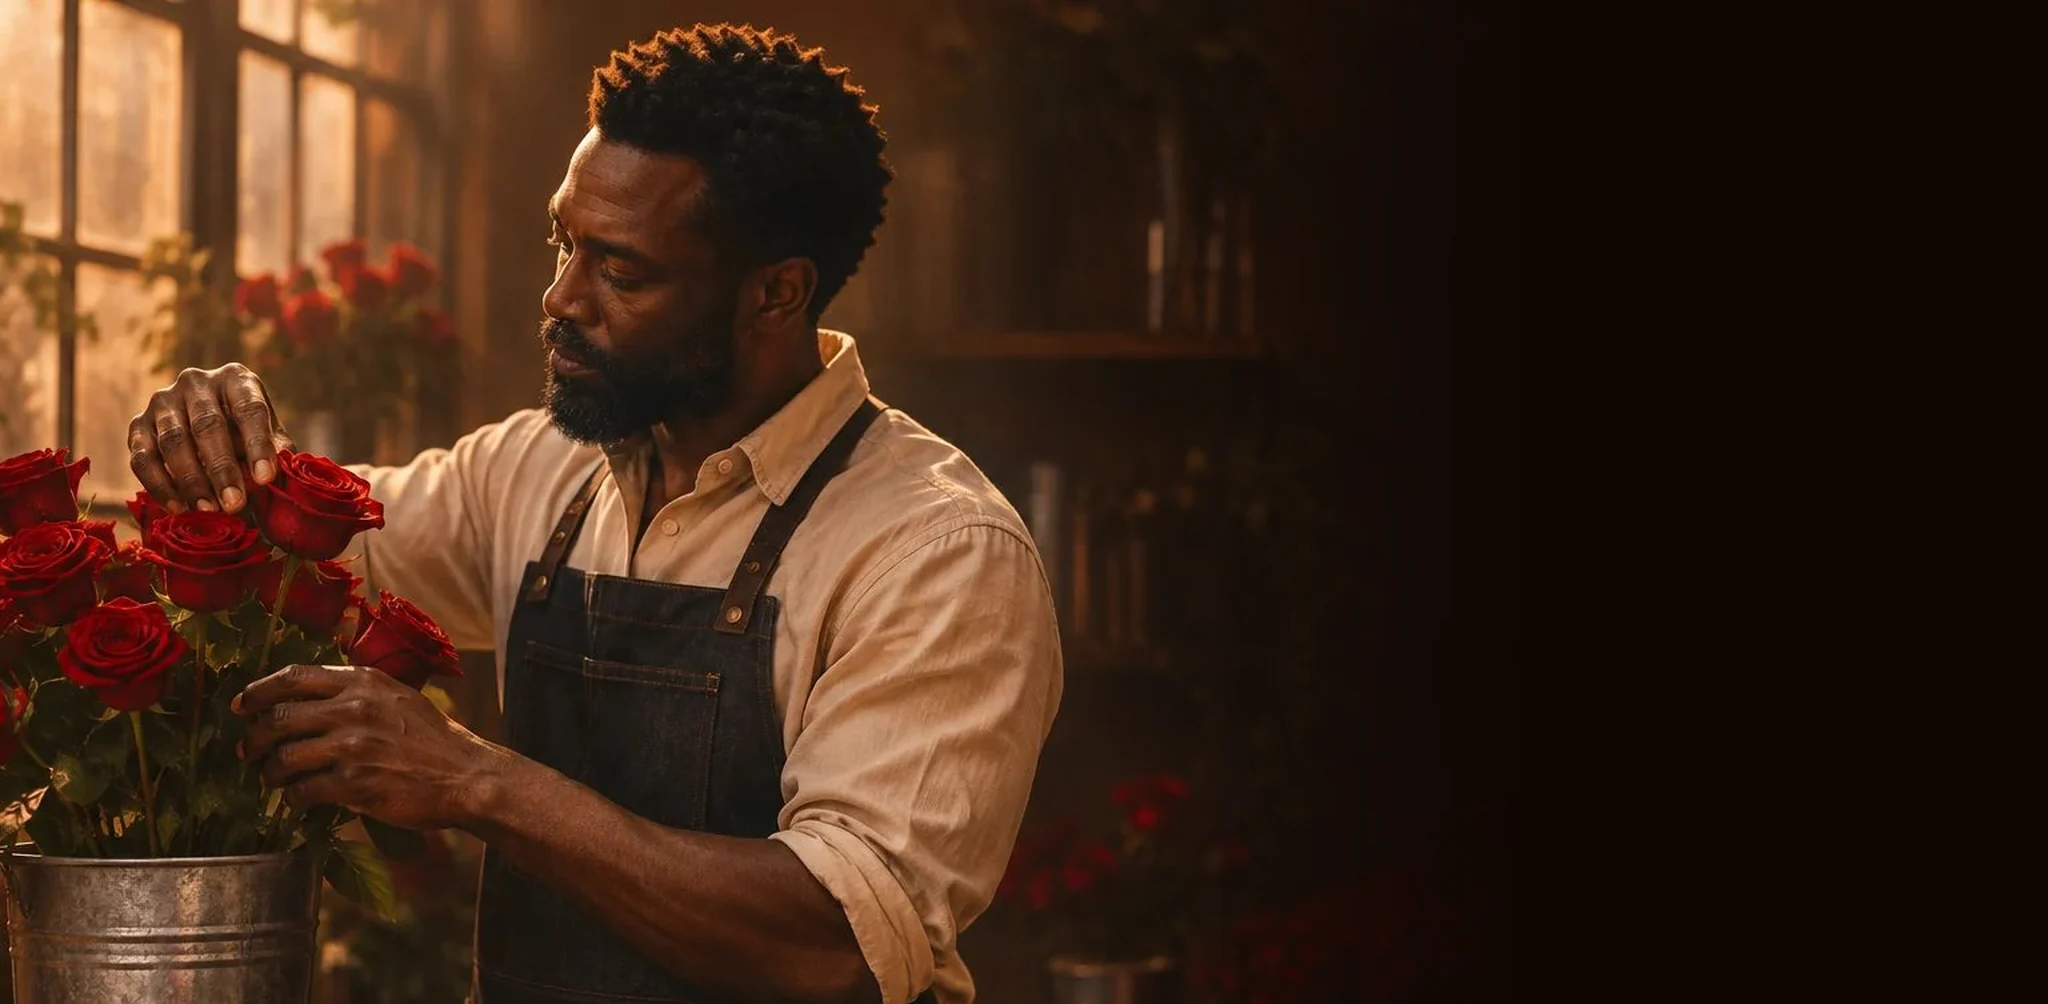
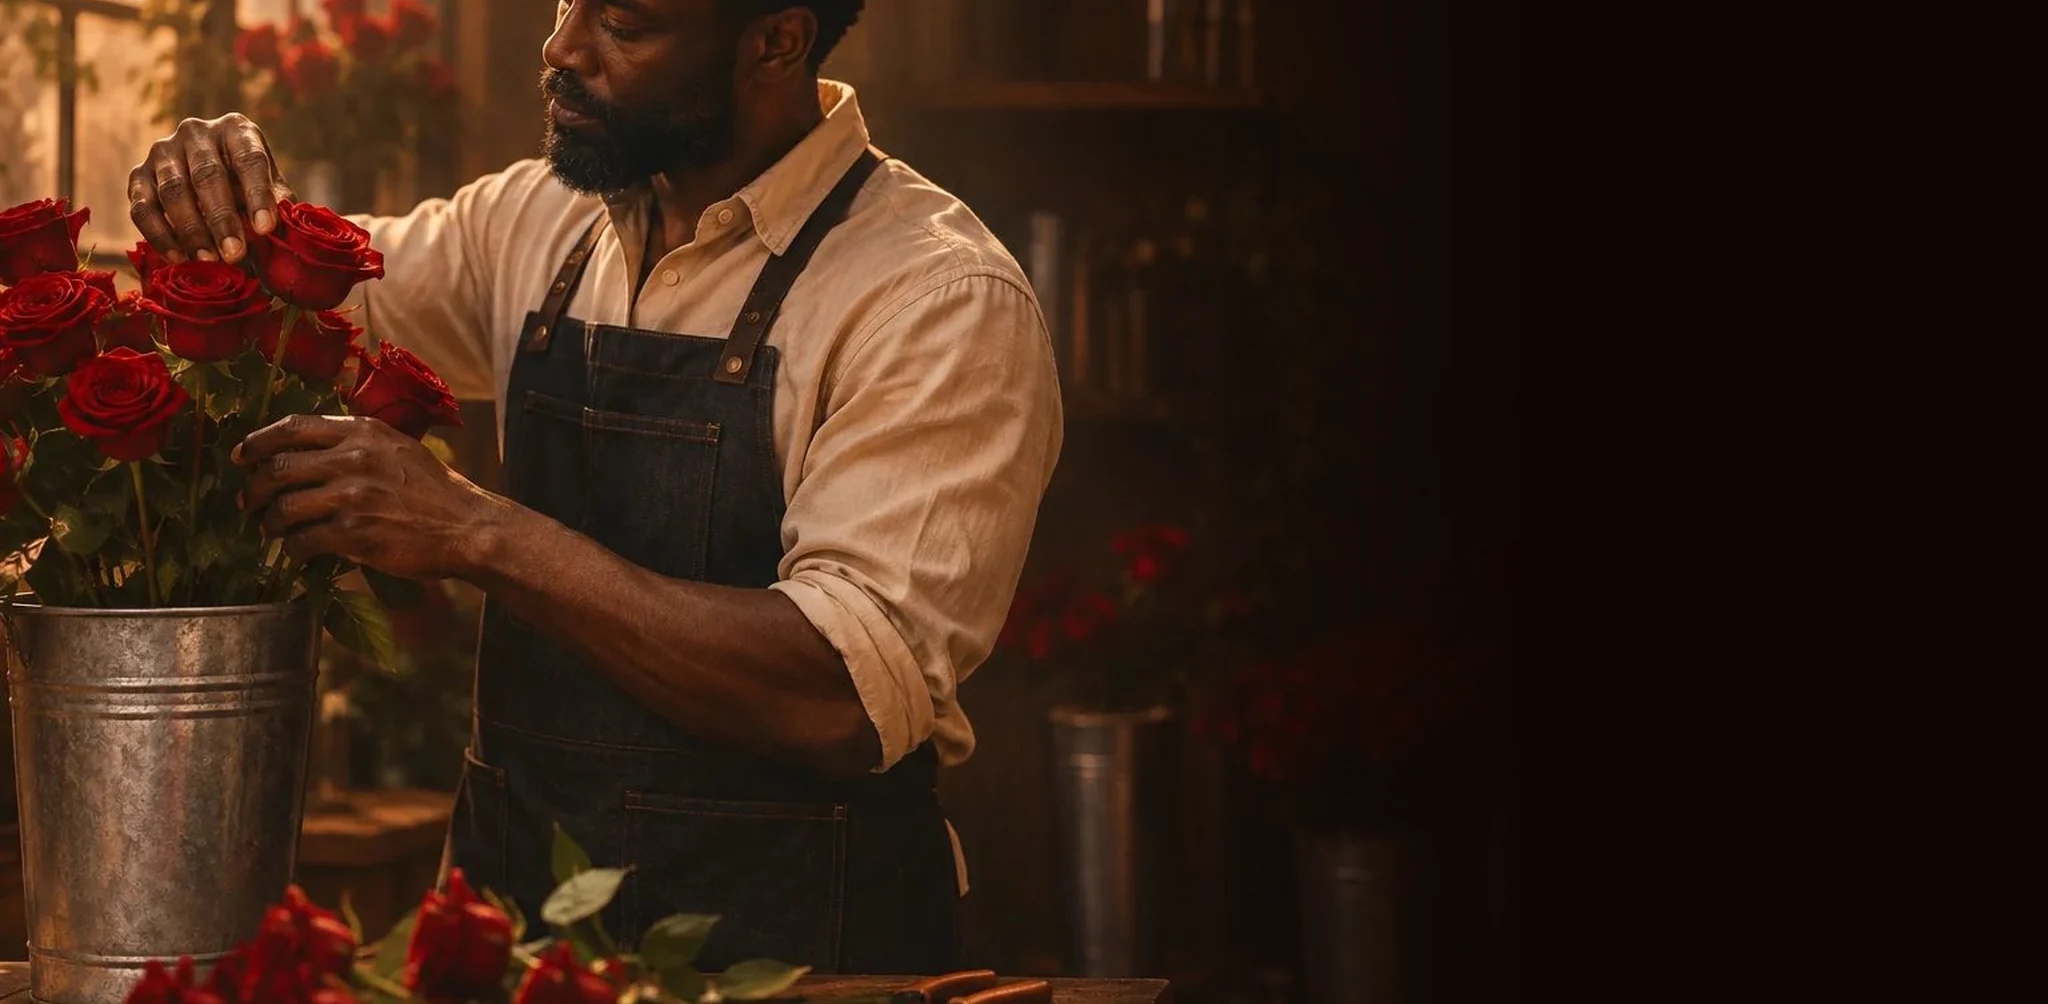
Gratitude Bloom spread: raise background on the roses and arm, resize paper card
Claude-Session: https://claude.ai/code/session_01BK5deQQsLrtgaPUMqE32ib

diff --git a/projects-book/wow/index.html b/projects-book/wow/index.html
@@ -953,10 +953,10 @@ const ART={
 "live": [
 {
 "kind": "video",
-"x": 20,
-"y": 330,
-"w": 1000,
-"h": 660,
+"x": 210,
+"y": 470,
+"w": 810,
+"h": 534,
 "d": 1.0,
 "fl": 1,
 "src": "assets/rose-bloom.webm",
@@ -965,8 +965,8 @@ const ART={
 "assets/rose-bloom.mp4"
 ],
 "post": "post",
-"cw": 880,
-"ch": 548,
+"cw": 700,
+"ch": 436,
 "rot": -2.5,
 "pop": 0.5
 }
@@ -974,9 +974,9 @@ const ART={
 "notes": [
 {
 "t": "type it, watch it bloom",
-"x": 60,
-"y": 120,
-"size": 56,
+"x": 40,
+"y": 70,
+"size": 52,
 "rot": -4,
 "col": "#f0c27b",
 "ul": 1

diff --git a/projects-book/tools/book_data_wow.py b/projects-book/tools/book_data_wow.py
@@ -146,9 +146,9 @@ ART_DATA = {
     bg='assets/rose-bg.webp', fg=None, tcx=1500, tw=900, th=330, tcy=300,
     imgs={'post': 'assets/rose-bloom-post.webp'},
     live=[
-      dict(kind='video', x=20, y=330, w=1000, h=660, d=1.0, fl=1, src='assets/rose-bloom.webm', srcs=['assets/rose-bloom.webm', 'assets/rose-bloom.mp4'], post='post', cw=880, ch=548, rot=-2.5, pop=.5),
+      dict(kind='video', x=210, y=470, w=810, h=534, d=1.0, fl=1, src='assets/rose-bloom.webm', srcs=['assets/rose-bloom.webm', 'assets/rose-bloom.mp4'], post='post', cw=700, ch=436, rot=-2.5, pop=.5),
     ],
     notes=[
-      dict(t='type it, watch it bloom', x=60, y=120, size=56, rot=-4, col='#f0c27b', ul=1),
+      dict(t='type it, watch it bloom', x=40, y=70, size=52, rot=-4, col='#f0c27b', ul=1),
     ]),
 }

diff --git a/projects-book/tools/wow_assets.py b/projects-book/tools/wow_assets.py
@@ -42,7 +42,7 @@ card(lb, 'HIDDEN LAYERS', O + 'creative-c2.webp')
 # ---- Gratitude Bloom (Rose's): the project's own cover, mirrored so the florist sits on the art page and the dark shop interior carries the text
 rc = Image.open(R + 'roses-gratitude/assets/cover.jpg').convert('RGB').transpose(Image.FLIP_LEFT_RIGHT)
 k = W / rc.width; rc = rc.resize((W, round(rc.height * k)), Image.LANCZOS)
-rb = rc.crop((0, 0, W, H))
+RC = 250; rb = rc.crop((0, RC, W, RC + H))
 sh_ = Image.new('RGB', (W, H), (14, 6, 3)); m = Image.new('L', (W, H), 0); d = ImageDraw.Draw(m)
 for x in range(W): d.line([(x, 0), (x, H)], fill=max(0, min(255, int((x - 980) / 260 * 120))))
 rb = Image.composite(sh_, rb, m)
